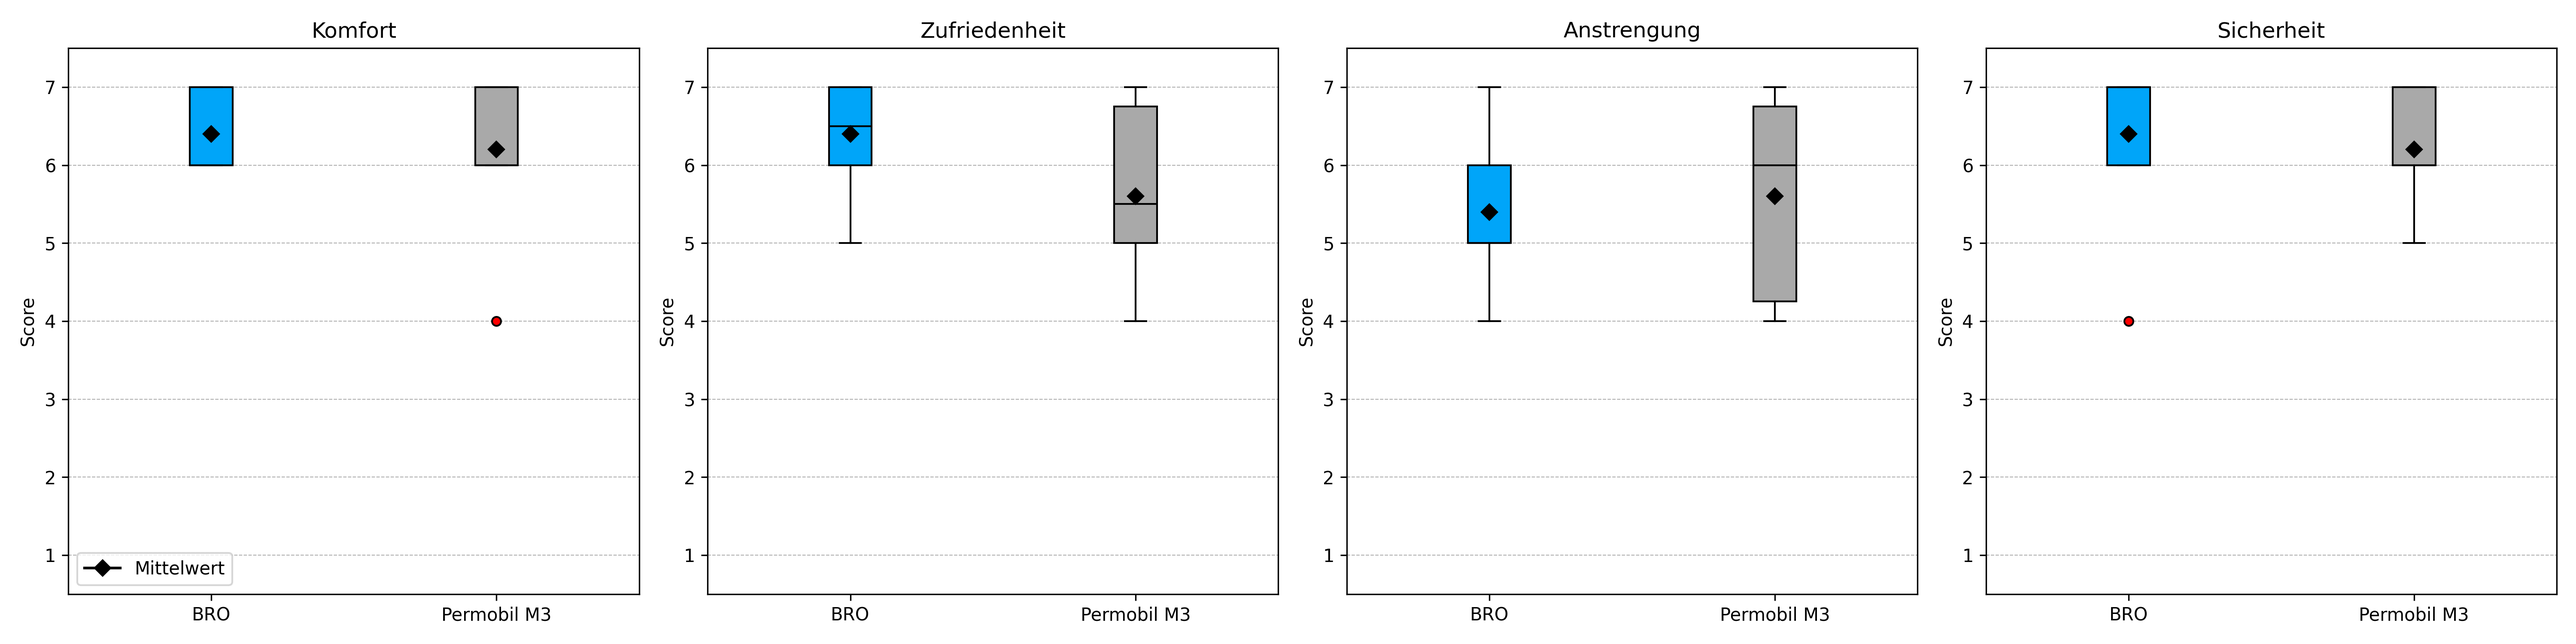
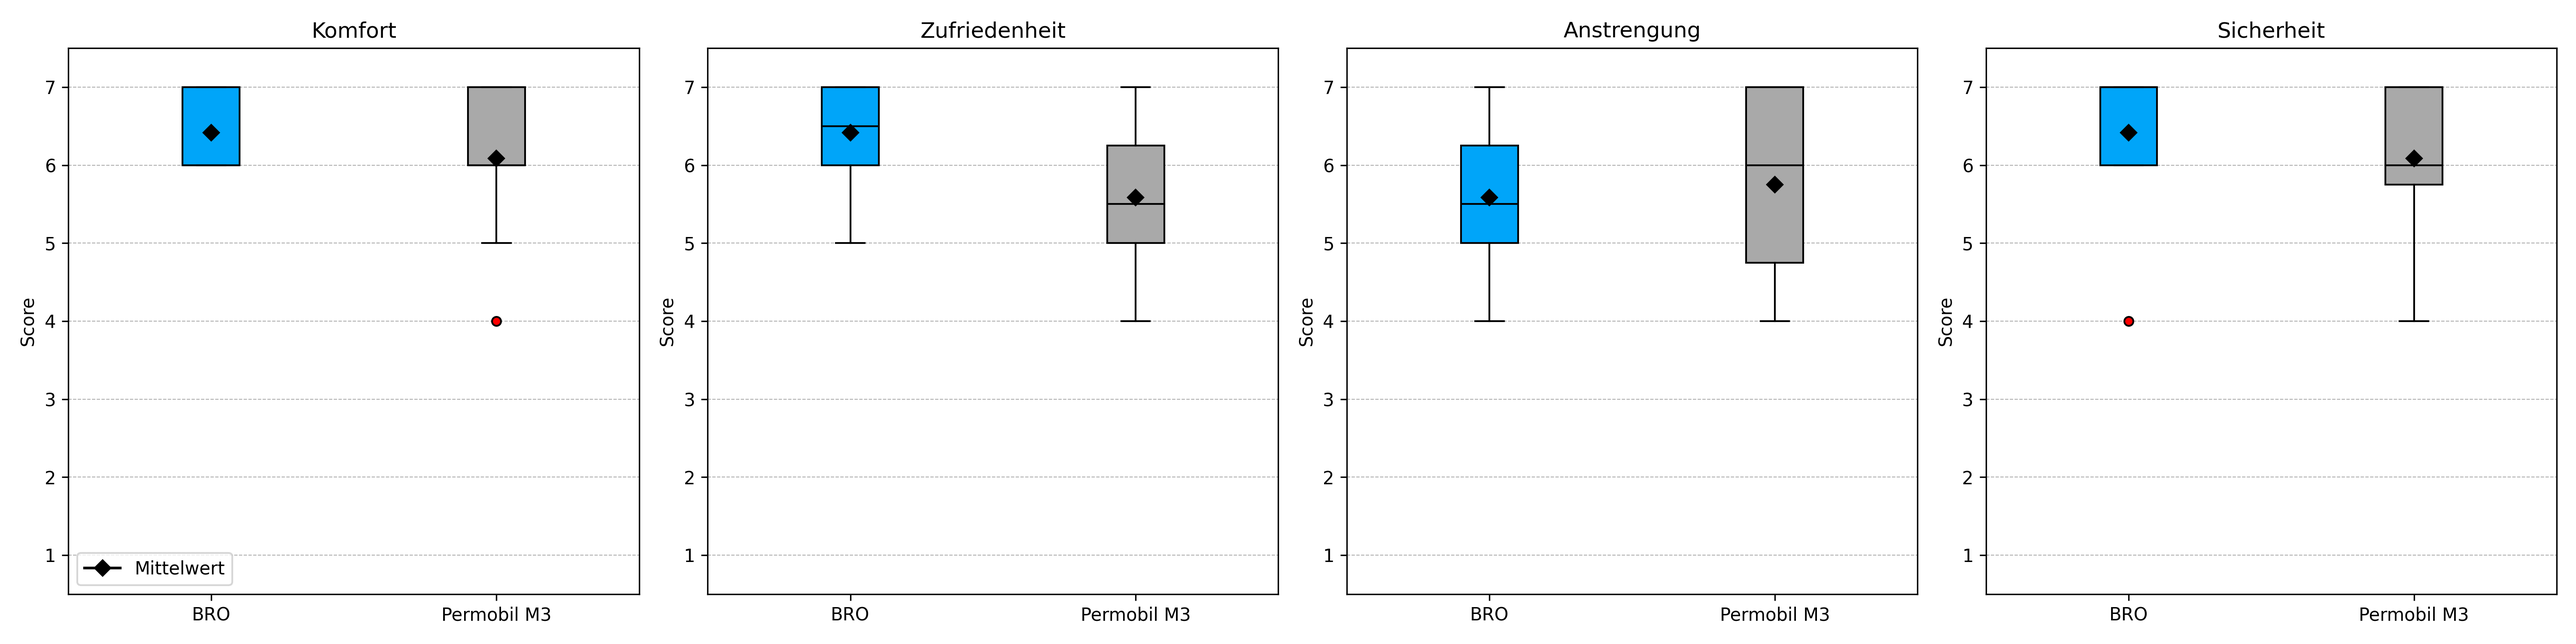
P10 und P11

diff --git a/Code/piads_boxplot_improved.py b/Code/piads_boxplot_improved.py
@@ -27,41 +27,56 @@ def extract_scores(df, group_col, version_label, prefix1, prefix2):
     }), axis=1)
 
 def plot_boxplots(data, score_names, y_lim, y_ticks, color_map, output_path):
-    """Create and save boxplots for the given scores."""
-    plt.figure(figsize=(16, 12))
-    for i, col in enumerate(score_names, 1):
-        plt.subplot(2, 2, i)
-        ax = sns.boxplot(data=data, x='Version', y=col, hue='Version', palette=color_map, dodge=False)
+    """Create and save boxplots using matplotlib (volle Kontrolle)."""
+    fig, axes = plt.subplots(1, 4, figsize=(20, 5))
 
-        # Add title with sample sizes
-        n_bro = data[data['Version'] == 'BRO'][col].notna().sum()
-        n_perm = data[data['Version'] == 'Permobil M3'][col].notna().sum()
-        plt.title(f'PIADS {col} (n={n_bro} | n={n_perm})')
-        plt.xlabel('')
-        plt.ylabel('Score')
+    for i, (col, ax) in enumerate(zip(score_names, axes)):
+        # Daten für beide Gruppen
+        bro_vals = data[data['Version'] == 'BRO'][col].dropna()
+        perm_vals = data[data['Version'] == 'Permobil M3'][col].dropna()
+        grouped_data = [bro_vals, perm_vals]
 
-        # Set y-axis limits and ticks
+        # Boxplot mit vollen Kontrollelementen
+        box = ax.boxplot(
+            grouped_data,
+            widths=0.2,
+            patch_artist=True,
+            boxprops=dict(linewidth=1, edgecolor='black'),
+            medianprops=dict(color='black'),
+            whiskerprops=dict(color='black', linewidth=1),
+            capprops=dict(color='black', linewidth=1),
+            flierprops=dict(marker='o', color='black', markersize=3, alpha=0.6)
+        )
+
+        # Farben setzen
+        colors = [color_map['BRO'], color_map['Permobil M3']]
+        for patch, color in zip(box['boxes'], colors):
+            patch.set_facecolor(color)
+
+        # Achsen- und Titelbeschriftungen
+        ax.set_xticks([1, 2])
+        ax.set_xticklabels(['BRO', 'Permobil M3'])
+        ax.set_title(f'PIADS {col} (n={len(bro_vals)} | n={len(perm_vals)})')
+        ax.set_ylabel("Score" if i == 0 else "")
         ax.set_ylim(y_lim)
         ax.set_yticks(y_ticks)
-
-        # Add gridlines
         ax.yaxis.grid(True, linestyle='-', linewidth=0.5)
         ax.set_axisbelow(True)
 
         # Mittelwerte als schwarze Rauten
-        for version in data['Version'].unique():
-            mean_val = data[data['Version'] == version][col].mean()
-            xpos = 0 if version == 'BRO' else 1
-            ax.plot(xpos, mean_val, marker='D', color='black', markersize=6, label='Mittelwert' if i == 1 and version == 'BRO' else "")
+        for j, values in enumerate(grouped_data, start=1):
+            mean_val = values.mean()
+            ax.plot(j, mean_val, marker='D', color='black', markersize=6,
+                    label='Mittelwert' if i == 0 and j == 1 else "")
 
-        if i == 1:
+        if i == 0:
             ax.legend()
-
 
     plt.tight_layout()
     plt.savefig(output_path, dpi=300)
     plt.close()
     print(f"PIADS-Boxplots gespeichert unter: {output_path}")
+
 
 # === Main Logic ===
 df = load_csv("merged_data.csv")

diff --git a/Code/EOU-effort_barplot.py b/Code/EOU-effort_barplot.py
@@ -106,11 +106,12 @@ def plot_overall_boxplots(eou_df, effort_df, output_file):
         scores_bro = data[data['Version'] == 'BRO']['Score'].dropna()
         scores_m3 = data[data['Version'] == 'Permobil M3']['Score'].dropna()
 
-        box = ax.boxplot([scores_bro, scores_m3], labels=['BRO', 'Permobil M3'],
+        box = ax.boxplot([scores_bro, scores_m3], tick_labels=['BRO', 'Permobil M3'],
                         patch_artist=True,
                         medianprops=dict(color='black'),
                         whiskerprops=dict(color='black'),
                         capprops=dict(color='black'),
+                        widths=0.2,
                         flierprops=dict(markerfacecolor='red', marker='o', markersize=5, linestyle='none'))
 
         # Farben manuell zuweisen

diff --git a/Code/ssi_barplot_improved.py b/Code/ssi_barplot_improved.py
@@ -106,8 +106,9 @@ for ax, item in zip(axs, SSI_ITEMS):
     bro_scores = ssi_combined_clean[ssi_combined_clean['Version'] == 'BRO'][item].dropna()
     m3_scores = ssi_combined_clean[ssi_combined_clean['Version'] == 'Permobil M3'][item].dropna()
 
-    box = ax.boxplot([bro_scores, m3_scores], labels=['BRO', 'Permobil M3'],
+    box = ax.boxplot([bro_scores, m3_scores], tick_labels=['BRO', 'Permobil M3'],
                      patch_artist=True,
+                     widths=0.2,
                      medianprops=dict(color='black'),
                      whiskerprops=dict(color='black'),
                      capprops=dict(color='black'),

diff --git a/Code/score_barplot_improved.py b/Code/score_barplot_improved.py
@@ -169,8 +169,9 @@ for i, task_num in enumerate(range(1, 7)):
     m3_scores = [s for s in m3_scores if pd.notna(s)]
 
     ax = axs[i]
-    box = ax.boxplot([bro_scores, m3_scores], labels=['BRO', 'Permobil M3'],
+    box = ax.boxplot([bro_scores, m3_scores], tick_labels=['BRO', 'Permobil M3'],
                      patch_artist=True,
+                     widths=0.2,
                      medianprops=dict(color='black'),
                      whiskerprops=dict(color='black'),
                      capprops=dict(color='black'),
